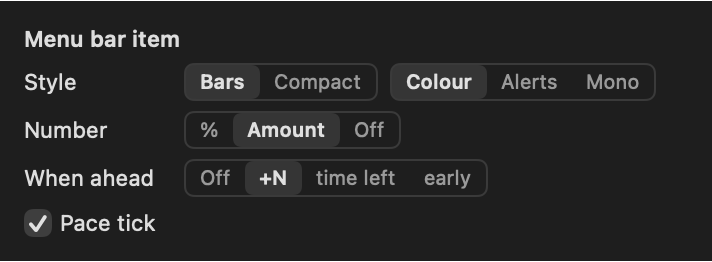
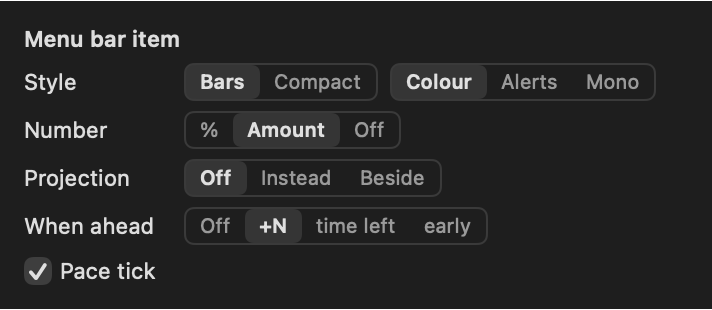
Projection setting in the popup, docs and screenshots
A Projection row (Off, Instead, Beside) under Number, saved as menuBarProjection and passed to the menu bar item and to renders. README settings list and a menu bar image of the budget with $412 over →$530; the decision in DECISIONS.md. Images rendered with TZ=UTC.

diff --git a/MenuBar/Sources/Views.swift b/MenuBar/Sources/Views.swift
@@ -15,6 +15,7 @@ struct MenuBarLabel: View {
     @AppStorage(MenuBarImage.Options.Key.budgetAs) private var budgetAs = MenuBarImage.BudgetAs.percent.rawValue
     @AppStorage(MenuBarImage.Options.Key.extra) private var showExtra = false
     @AppStorage(MenuBarImage.Options.Key.limits) private var limits = MenuBarImage.Limits.both.rawValue
+    @AppStorage(MenuBarImage.Options.Key.projection) private var projection = MenuBarImage.Projection.off.rawValue
 
     var body: some View {
         // On a budget there's no Labels setting and no "$" label: a single bar needs none, and the amount ("$412") has its own "$".
@@ -22,7 +23,8 @@ struct MenuBarLabel: View {
                                            ahead: showAhead, aheadAs: MenuBarImage.AheadAs(saved: aheadAs),
                                            palette: MenuBarImage.Palette(saved: palette),
                                            budgetAs: MenuBarImage.BudgetAs(saved: budgetAs), extra: showExtra,
-                                           limits: MenuBarImage.Limits(saved: limits))
+                                           limits: MenuBarImage.Limits(saved: limits),
+                                           projection: MenuBarImage.Projection(saved: projection))
         Group {
             if let image = MenuBarImage.item(style: MenuBarImage.Style(saved: style), rows: model.menuBarRows(),
                                              rings: model.compactRings(), extra: model.extraRow(), options: options) {
@@ -49,6 +51,7 @@ struct MenuBarSettings: View {
     @AppStorage(MenuBarImage.Options.Key.budgetAs) private var budgetAs = MenuBarImage.BudgetAs.percent.rawValue
     @AppStorage(MenuBarImage.Options.Key.extra) private var showExtra = false
     @AppStorage(MenuBarImage.Options.Key.limits) private var limits = MenuBarImage.Limits.both.rawValue
+    @AppStorage(MenuBarImage.Options.Key.projection) private var projection = MenuBarImage.Projection.off.rawValue
 
     var body: some View {
         let snapshot = model.snapshot
@@ -80,6 +83,12 @@ struct MenuBarSettings: View {
                                          set: { showPercent = $0 != "off"; if budget && $0 != "off" { budgetAs = $0 } }),
                            options: (budget ? MenuBarImage.BudgetAs.allCases.map { ($0.rawValue, $0.name) } : [("percent", "%")])
                                + [("off", "Off")])
+            }
+            row("Projection", help: "Where each limit is heading at its reset, at the pace so far: →35%, or →140% when it "
+                + "runs out first. Instead: in place of the number. Beside: after it, on a second line for a single Compact ring. "
+                + "Until there's a projection (early in a window, or at 100%), the number alone.") {
+                ModeSwitch(mode: Binding(get: { MenuBarImage.Projection(saved: projection).rawValue }, set: { projection = $0 }),
+                           options: MenuBarImage.Projection.allCases.map { ($0.rawValue, $0.name) })
             }
             if snapshot?.extraUsage != nil {
                 row("Extra usage", help: "Your extra usage as its own $ item next to the 5h and 7d one: as the share of its "

diff --git a/MenuBar/Sources/UsageMeterApp.swift b/MenuBar/Sources/UsageMeterApp.swift
@@ -114,6 +114,7 @@ enum PreviewRenderer {
             UsagePanel.settingsShownKey: a.contains("panel"),   // the whole popup shows its settings open
             Updater.enabledKey: a.contains("update"),
             Key.limits: a.contains("only5h") ? "session" : a.contains("only7d") ? "week" : "both",
+            Key.projection: a.contains("projected") ? "instead" : a.contains("beside") ? "beside" : "off",
         ]
         for (k, v) in settings { store.set(v, forKey: k) }
         return store

diff --git a/README.md b/README.md
@@ -133,6 +133,8 @@ Hover over a control to see what it does.
 - **Limits** (Pro/Max): both, or only `5h` or `7d`. The popup and the graph keep showing both.
   An account without a 5-hour limit shows only `7d` anyway.
 - **Number**: `%` or off; on a $ budget also the amount spent.
+- **Projection**: off, or where each limit is heading at its reset (`→35%`, `→140%` when it runs out
+  first), instead of the number or beside it. A single Compact ring puts it on a second line.
 - **Extra usage** (Pro/Max with extra usage turned on): a `$` item beside the limits, as `%` or amount.
 - **When ahead**: off, or how far ahead once a limit is 15+ points ahead of pace.
 - **Labels** and **Pace tick**. On a $ budget there's no Labels setting and no `$` label: one bar
@@ -140,13 +142,13 @@ Hover over a control to see what it does.
 
 | Pro / Max | Enterprise / Team |
 |---|---|
-| <img src="docs/screenshots/settings-pro-max.png" width="356" alt="Menu bar item settings, one per row: Style Bars or Compact and Colour, Alerts or Mono; Limits Both, 5h or 7d; Number % or Off; Extra usage Off, % or Amount; When ahead Off, +N, time left or early; checkboxes Labels and Pace tick"> | <img src="docs/screenshots/settings-enterprise.png" width="356" alt="The same settings on a budget account: Number %, Amount or Off, no Limits or Extra usage rows, and only the Pace tick checkbox"> |
+| <img src="docs/screenshots/settings-pro-max.png" width="356" alt="Menu bar item settings, one per row: Style Bars or Compact and Colour, Alerts or Mono; Limits Both, 5h or 7d; Number % or Off; Projection Off, Instead or Beside; Extra usage Off, % or Amount; When ahead Off, +N, time left or early; checkboxes Labels and Pace tick"> | <img src="docs/screenshots/settings-enterprise.png" width="356" alt="The same settings on a budget account: Number %, Amount or Off, Projection Off, Instead or Beside, no Limits or Extra usage rows, and only the Pace tick checkbox"> |
 
 Some of the combinations, shown enlarged on a dark and a light menu bar:
 
-| Compact | Mono | Amount (budget) |
-|---|---|---|
-| <img src="docs/screenshots/menubar-compact.png" width="110" alt="Compact style: two rings, the week outside in yellow and the session inside in green, with 5h 20% and 7d 60% beside them"> | <img src="docs/screenshots/menubar-mono.png" width="140" alt="Mono palette: the 5h and 7d bars filled in the text colour instead of green and yellow"> | <img src="docs/screenshots/menubar-enterprise-amount.png" width="120" alt="A budget bar with $412 beside it instead of 21%"> |
+| Compact | Mono | Amount (budget) | Projection beside (budget, Compact) |
+|---|---|---|---|
+| <img src="docs/screenshots/menubar-compact.png" width="110" alt="Compact style: two rings, the week outside in yellow and the session inside in green, with 5h 20% and 7d 60% beside them"> | <img src="docs/screenshots/menubar-mono.png" width="140" alt="Mono palette: the 5h and 7d bars filled in the text colour instead of green and yellow"> | <img src="docs/screenshots/menubar-enterprise-amount.png" width="120" alt="A budget bar with $412 beside it instead of 21%"> | <img src="docs/screenshots/menubar-projection.png" width="97" alt="Compact style on a budget: one ring, with $412 on top and →$530 below it, where the budget is heading at the reset"> |
 
 | Pro/Max with extra usage beside it | The popup with extra usage |
 |---|---|
@@ -316,9 +318,9 @@ $APP --render-preview docs/screenshots/popup-pro-max-extra.png extra amount
 $APP --render-preview docs/screenshots/popup-pro-max-fable.png fable
 mv docs/screenshots/popup-pro-max-extra.png.label.png docs/screenshots/menubar-pro-max-extra.png
 $APP --render-preview docs/screenshots/settings-enterprise.png settings enterprise amount
-for v in compact mono "enterprise amount"; do
+for v in compact mono "enterprise amount" "compact enterprise amount beside"; do
   $APP --render-preview /tmp/um.png $v
-  mv /tmp/um.png.label.png "docs/screenshots/menubar-$(echo $v | sed 's/enterprise amount/enterprise-amount/').png"
+  mv /tmp/um.png.label.png "docs/screenshots/menubar-$(echo $v | sed 's/compact enterprise amount beside/projection/; s/enterprise amount/enterprise-amount/').png"
 done
 rm docs/screenshots/*.label.png /tmp/um.png
 ```

diff --git a/docs/DECISIONS.md b/docs/DECISIONS.md
@@ -37,6 +37,10 @@ options that were ruled out, so they aren't tried again.
 
 - **No Labels setting and no `$` label on a $ budget.** There's only one bar, so a label tells nothing apart,
   and the amount (`$306`) carries its own `$`.
+- **The Projection setting is text only, rounded to 5% and not capped** (2026-11-24): the bars and colours
+  stay on current usage. `→140%` says it runs out, as When ahead says in time. Instead puts it in the number's
+  column, so a row without a projection (its plain number) lines up. A single Compact ring shows Beside on a
+  second line: one row has no room for two numbers at 11 pt.
 - **A model's own weekly limit (Fable) is a third line in the week graph**, not a chart of its own: same 0-100%
   scale over the same week. Ochre, because violet merges with the blue week line for colour-blind readers.
 
